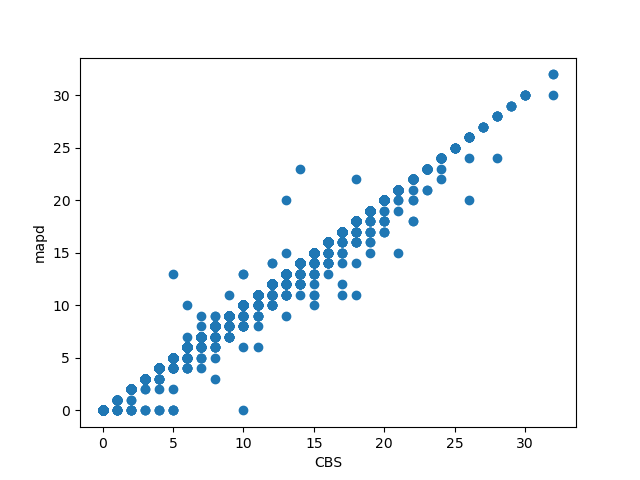
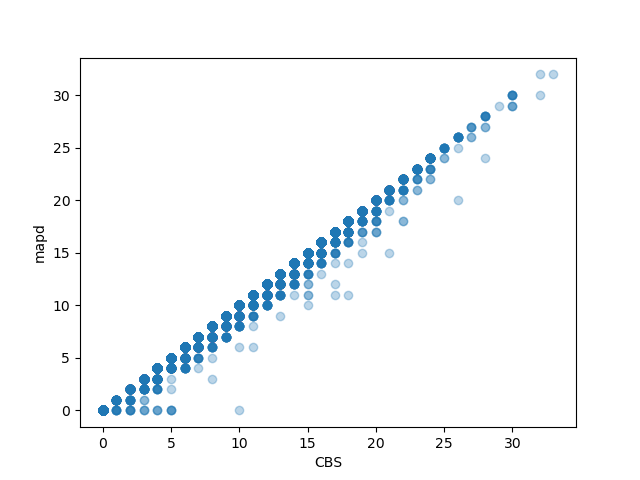
cbs reeval

diff --git a/input/evaluate_cbs.py b/input/evaluate_cbs.py
@@ -45,21 +45,33 @@ def plot_solved_containers(configs, solved_dict, num_list):
     plt.savefig("solved_containers_cbs__{}.png".format(COMPARE_NAME))
     plt.cla()
 
-
-def scatter_makespan(configs, makespan_dict):
+def scatter_dict(configs, data_dict, stat_name, data_type=int, fail_val=0, log_scale=False, val_range=[]):
     cbs_vals = []
     comp_vals = []
     for c in configs:
-        if c in makespan_dict[0] and c in makespan_dict[1]:
-            cbs_vals.append(int(makespan_dict[0][c]))
-            comp_vals.append(int(makespan_dict[1][c]))
+        if fail_val:
+            cbs_vals.append(data_type(fail_val if c not in data_dict[0] else data_dict[0][c]))
+            comp_vals.append(data_type(fail_val if c not in data_dict[1] else data_dict[1][c]))
+        else:
+            if c in data_dict[0] and c in data_dict[1]:
+                cbs_vals.append(data_type(data_dict[0][c]))
+                comp_vals.append(data_type(data_dict[1][c]))
 
     plt.xlabel("CBS")
     plt.ylabel(COMPARE_NAME)
 
-    plt.scatter(cbs_vals, comp_vals)
+    if log_scale:
+        plt.xscale('log')
+        plt.yscale('log')
 
-    plt.savefig("scatter_makespan_cbs__{}.png".format(COMPARE_NAME))
+    if val_range:
+        assert(len(val_range) == 2)
+        plt.xlim(val_range[0], val_range[1])
+        plt.ylim(val_range[0], val_range[1])
+
+    plt.scatter(cbs_vals, comp_vals, alpha=0.3)
+
+    plt.savefig("scatter_{}_cbs__{}.png".format(stat_name, COMPARE_NAME))
     plt.cla()
 
 
@@ -67,6 +79,7 @@ def main():
     configs = []
     solved_dict = ({}, {})
     makespan_dict = ({}, {})
+    runtime_dict = ({}, {})
     agent_nums = set()
     container_nums = set()
     for g in G_RANGE:
@@ -81,6 +94,7 @@ def main():
                     solved_dict[0][config] = not row["result"]
                     if not row["result"]:
                         makespan_dict[0][config] = row["makespan"]
+                        runtime_dict[0][config] = float(row["runtime"]) * 1000
             with open(os.path.join(COMPARE_PATH, str(g), str(s) + ".csv")) as file:
                 reader = csv.DictReader(file)
                 for row in reader:
@@ -90,11 +104,13 @@ def main():
                     solved_dict[1][config] = not row["result"]
                     if not row["result"]:
                         makespan_dict[1][config] = row["makespan"]
+                        runtime_dict[1][config] = float(row["t_solver"])
             assert (all(c in solved_dict[1] for c in configs))
 
     plot_solved_agents(configs, solved_dict, sorted(list(agent_nums)))
     plot_solved_containers(configs, solved_dict, sorted(list(container_nums)))
-    scatter_makespan(configs, makespan_dict)
+    scatter_dict(configs, makespan_dict, "makespan")
+    scatter_dict(configs, runtime_dict, "t_solver", data_type=float, fail_val='600', log_scale=True, val_range=[1e-2, 1e6])
 
 
 if __name__ == '__main__':
